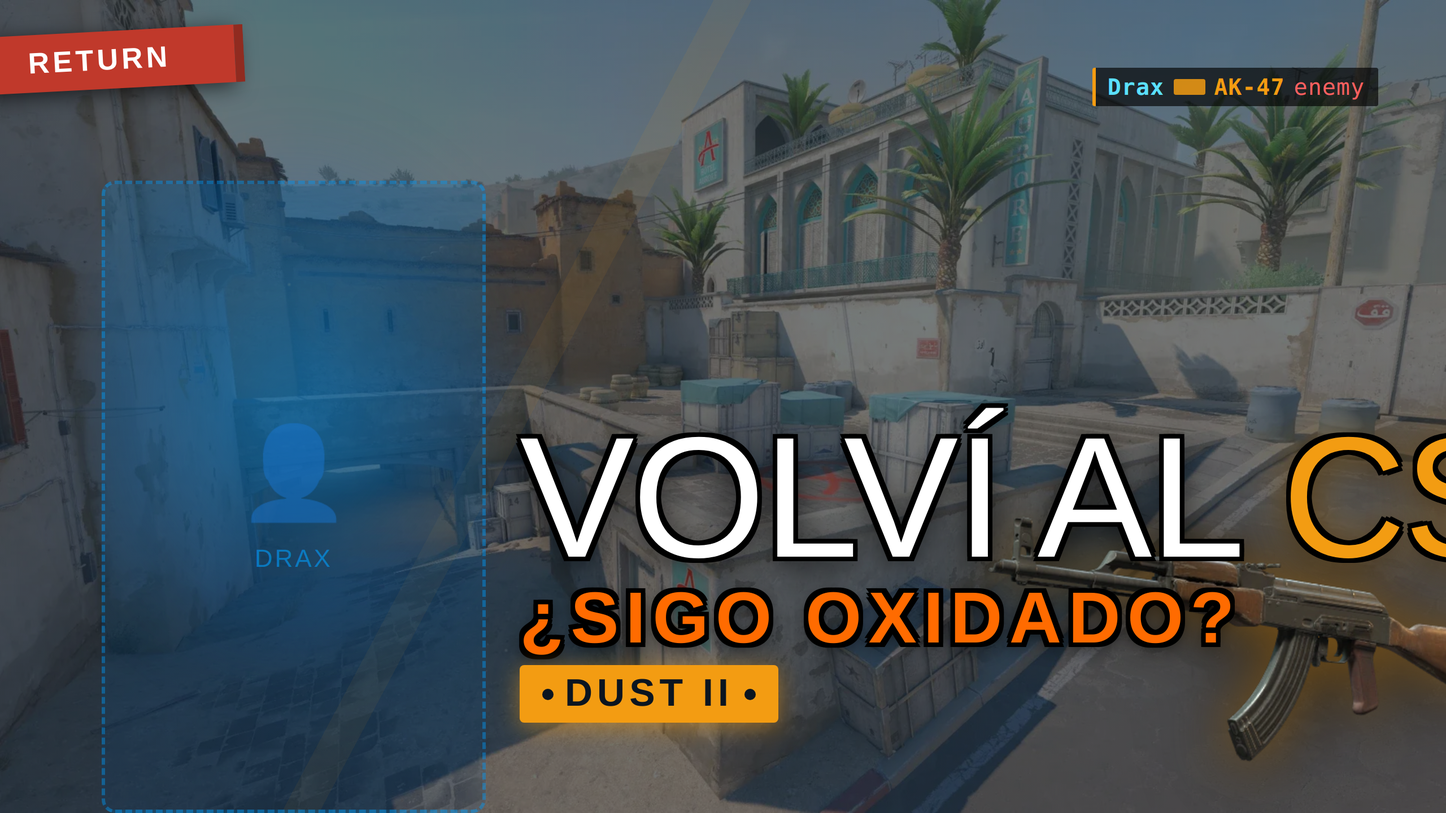
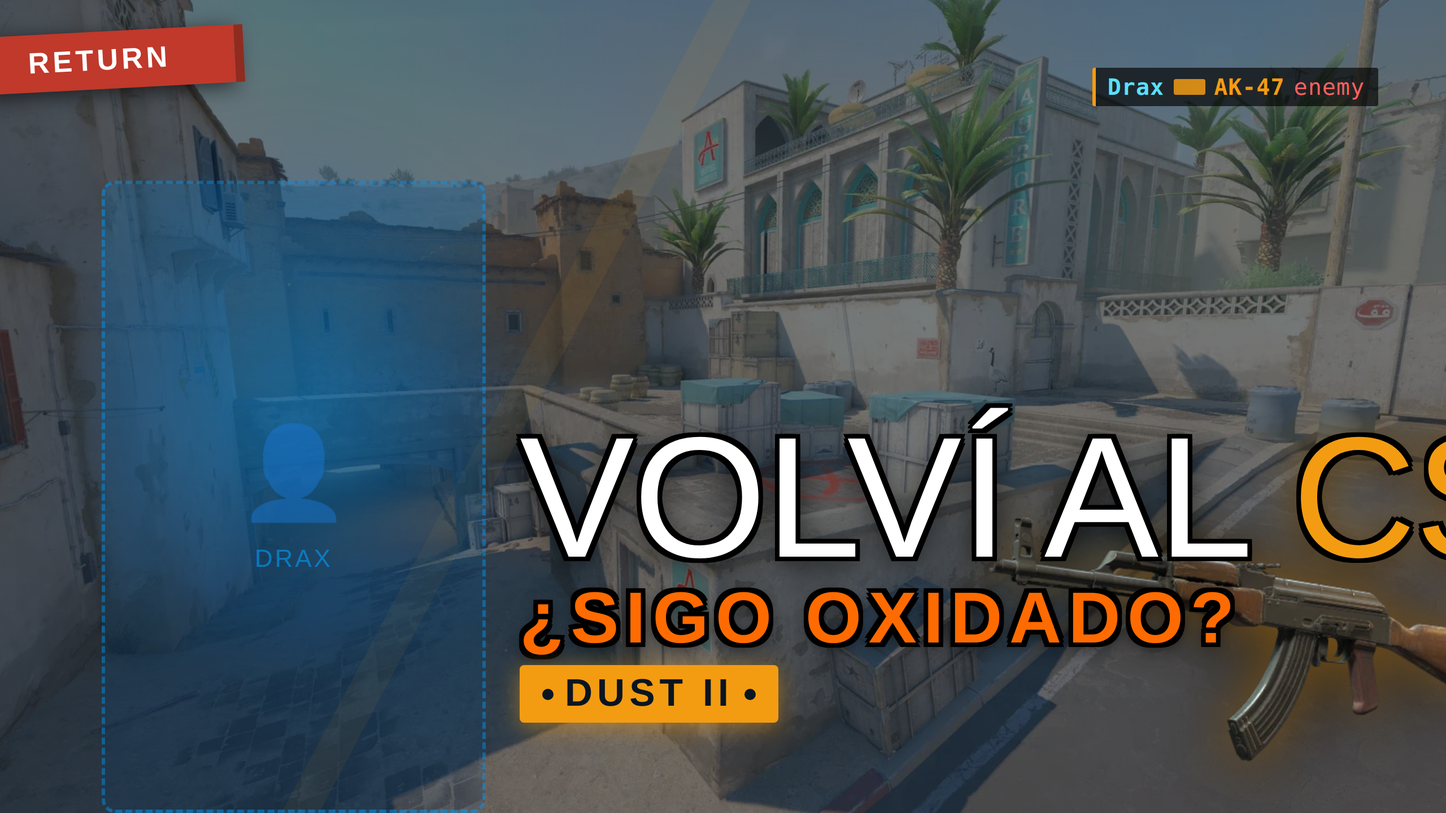
Fix headline overflow and finalize blend effect
Reduce headline font size 148px → 118px so "VOLVÍ AL CS2" fits fully.
Re-render all 4 JPEG outputs with real assets + multiply blend on AK-47.

https://claude.ai/code/session_018eXLoMJTxus4efDSYoCi2S

Changed region(s): [[0.5, 0.5, 0.8438, 0.6875], [0.8438, 0.5312, 1.0, 0.6875], [0.4375, 0.5625, 0.4688, 0.6562]]

diff --git a/thumbnail-cs2-dust2/styles.css b/thumbnail-cs2-dust2/styles.css
@@ -241,9 +241,9 @@ body {
 /* Main headline */
 .headline {
   font-family: var(--font-primary);
-  font-size: 148px;
+  font-size: 118px;
   line-height: 0.88;
-  letter-spacing: -2px;
+  letter-spacing: -1px;
   color: var(--color-text-main);
   text-transform: uppercase;
   text-shadow: var(--stroke), 0 6px 28px rgba(0,0,0,0.9);
